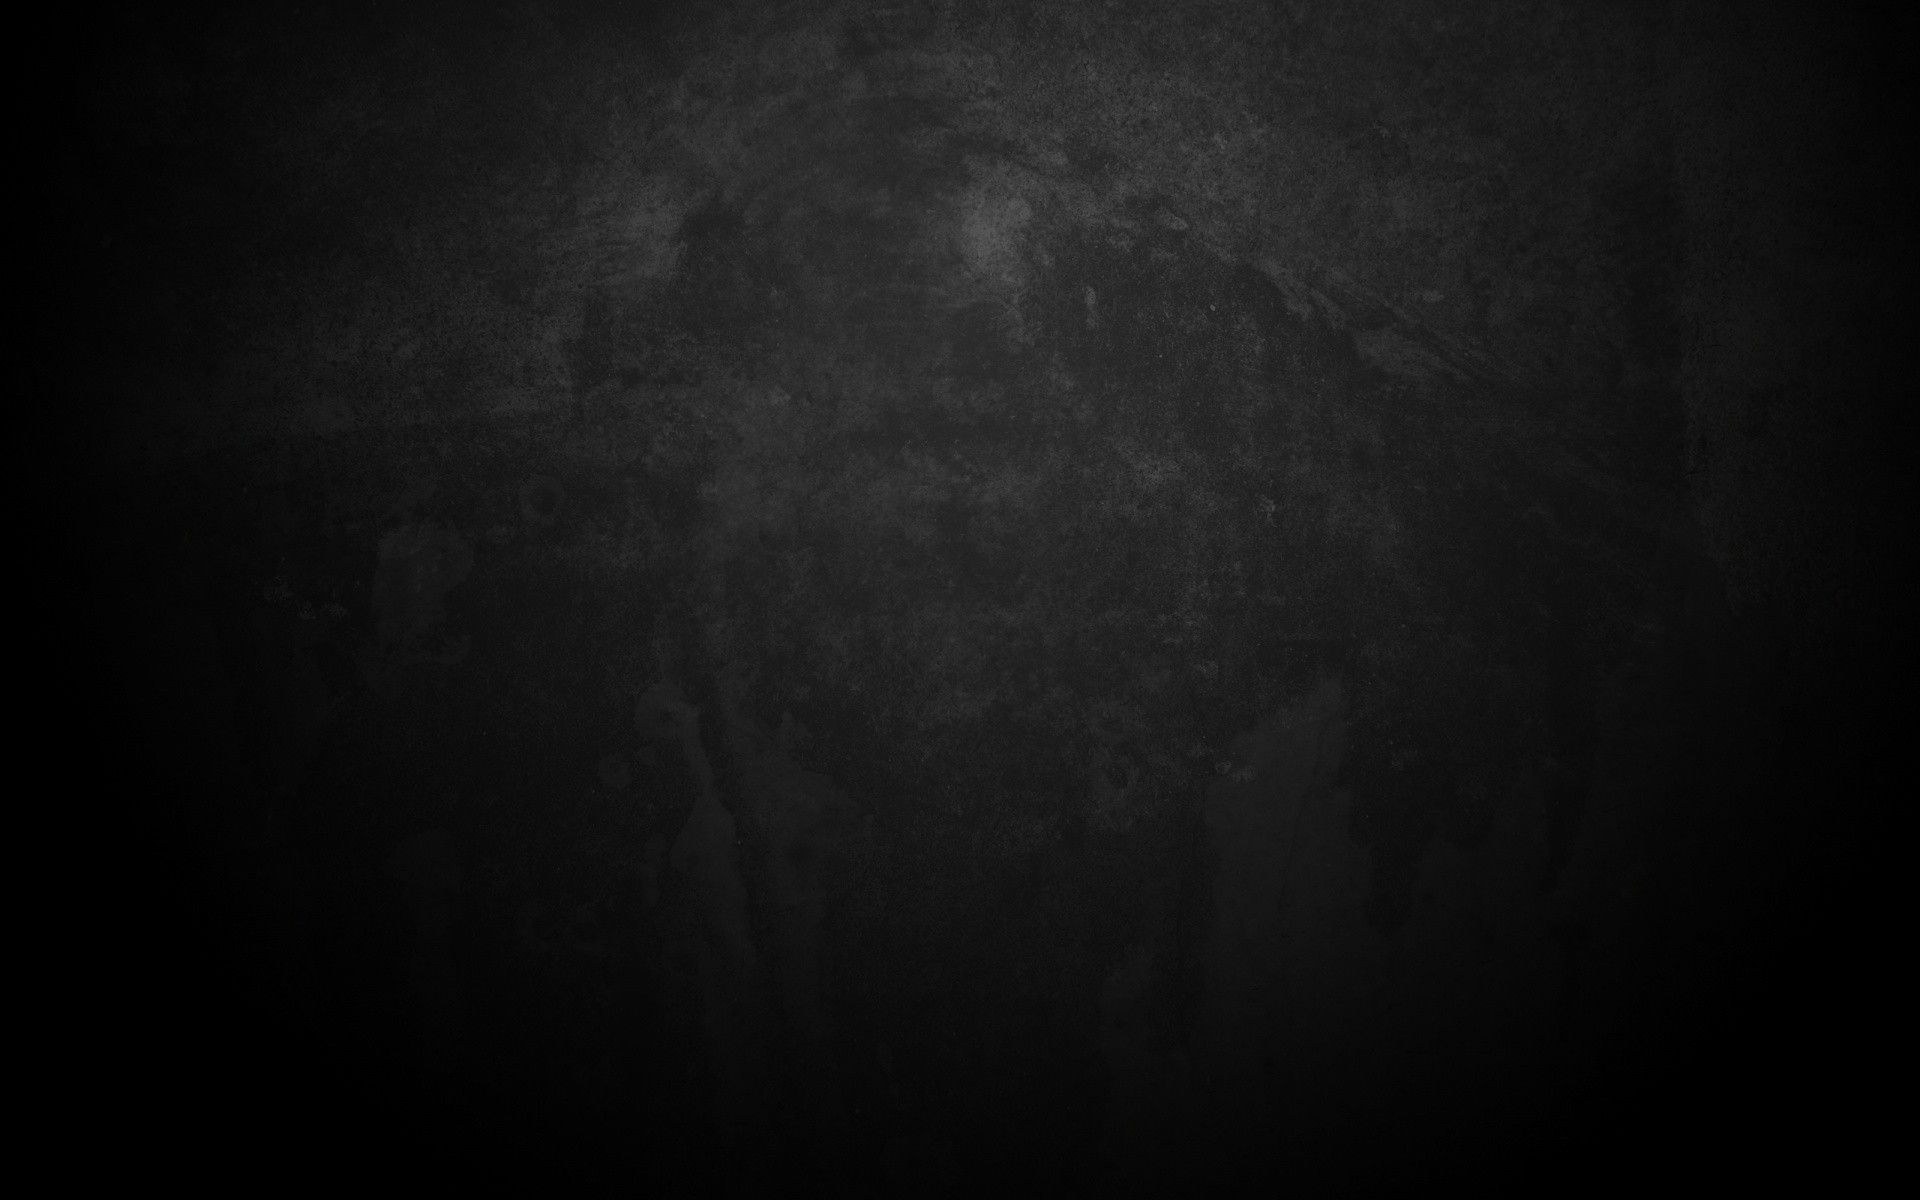
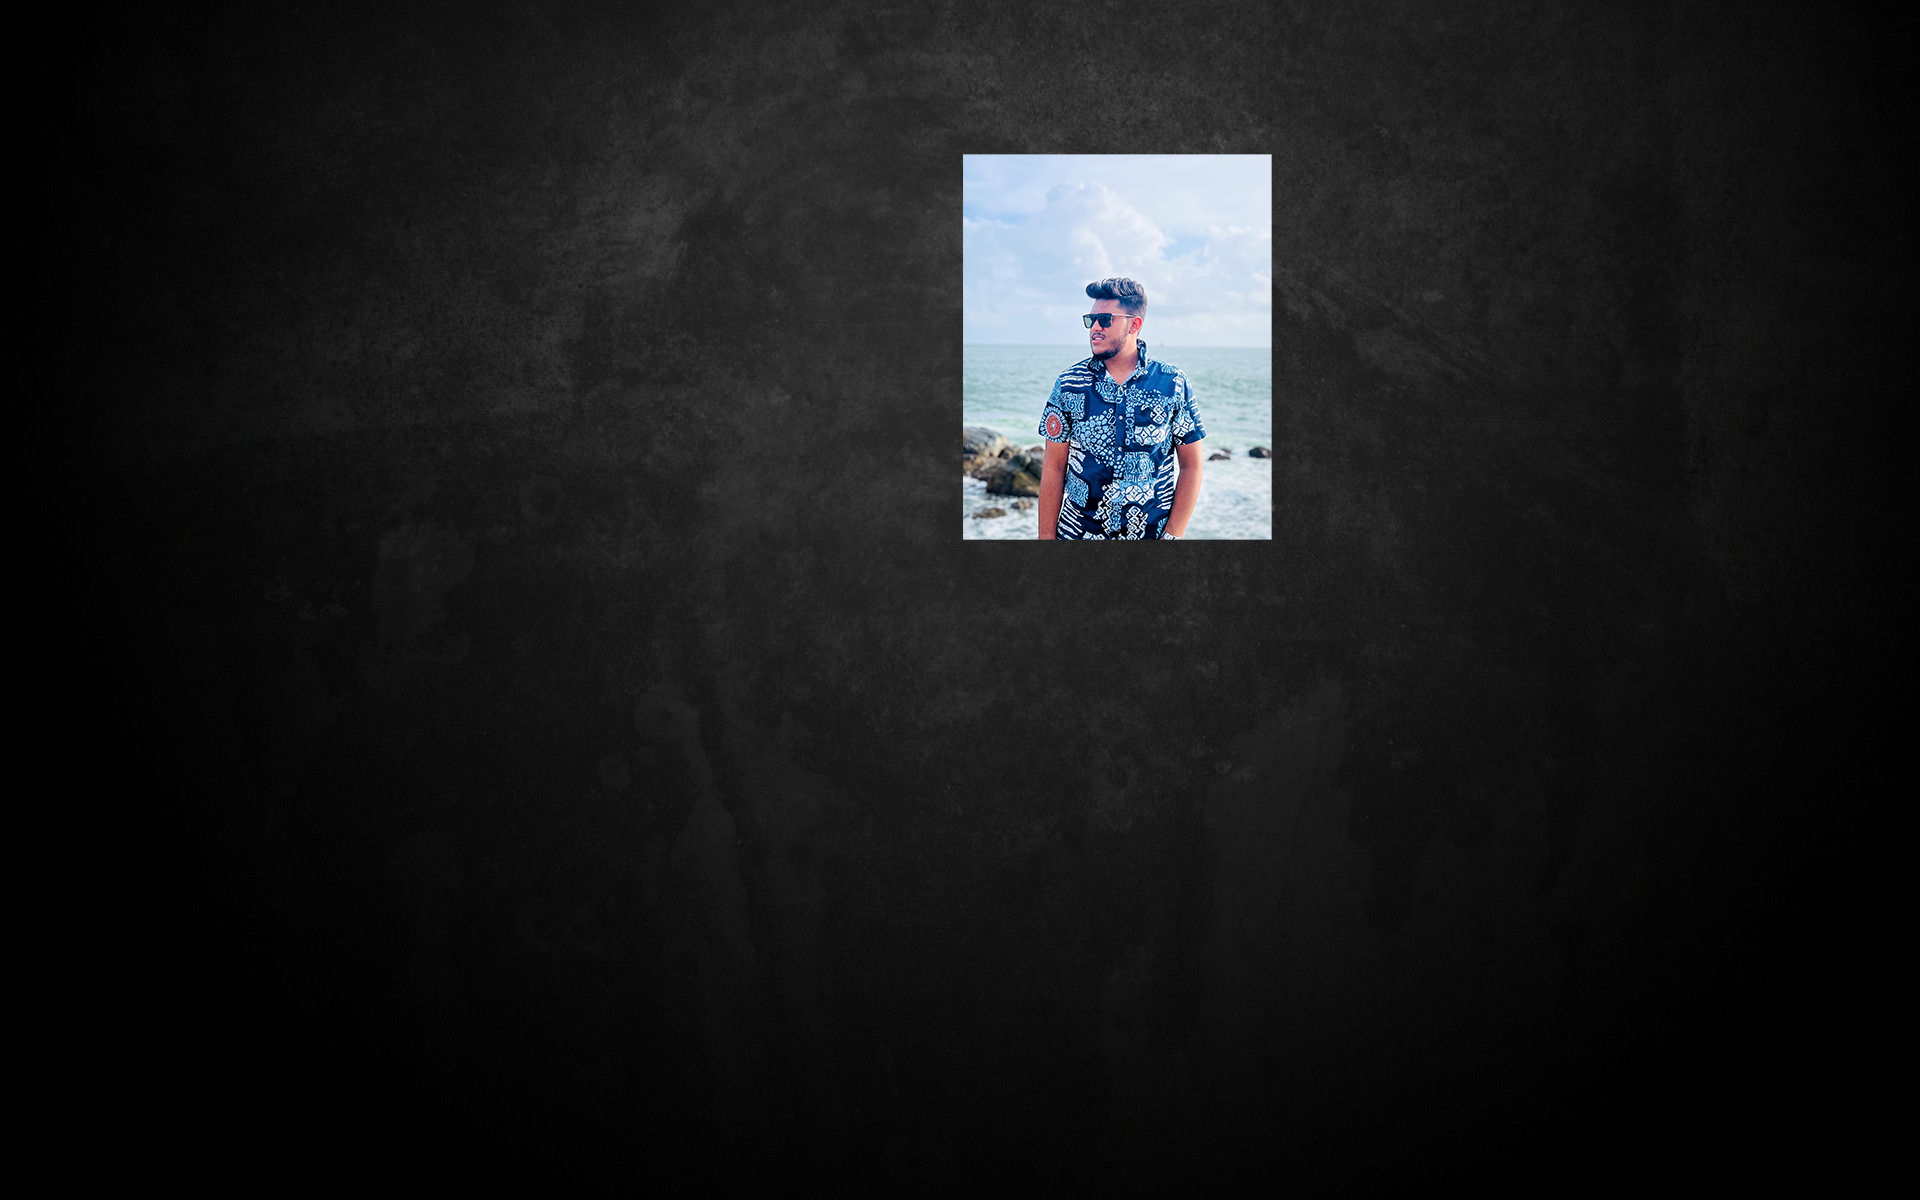
hh

Changed region(s): [[0.5, 0.1233, 0.6875, 0.4625]]

diff --git a/index.html b/index.html
@@ -64,7 +64,7 @@
     <div class="container">
 
       <h1><a href="index.html">TCN Bandara</a></h1>
-      <h2 style="color:#fff">I'm <span class="typing" style="color:#12D640"></span></h2>
+      <h2 style="color:#fff">I'm a <span class="typing" style="color:#12D640"></span></h2>
       <nav class="nav-menu d-none d-lg-block">
         <ul>
           <li class="active"><a href="#header"> <span>Home</span></a></li>
@@ -82,11 +82,14 @@
       </nav><!-- .nav-menu -->
 
       <div class="social-links">
-          <a href="https://www.linkedin.com/in/chamara-nuwan-032a35323" target="_blank" class="linkedin"><i class="bx bxl-linkedin"></i></a>
-          <a href="https://github.com/chamaraIT22113122" target="_blank" class="github"><i class="bx bxl-github"></i></a>
-          <a href="mailto:rajaprerak@gmail.com" target="_blank" class="google"><i class="bx bxl-google"></i></a>
-
-      </div>
+        <a href="https://www.linkedin.com/in/chamara-nuwan-032a35323" target="_blank" class="linkedin"><i class="bx bxl-linkedin"></i></a>
+        <a href="https://github.com/chamaraIT22113122" target="_blank" class="github"><i class="bx bxl-github"></i></a>
+        <a href="mailto:cn1120693@gmail.com" target="_blank" class="google"><i class="bx bxl-google"></i></a>
+        <a href="https://www.instagram.com/Cha__m_a" target="_blank" class="instagram"><i class="bx bxl-instagram"></i></a>
+        <a href="https://www.facebook.com/chamara.nuwan.332345" target="_blank" class="facebook"><i class="bx bxl-facebook"></i></a>
+        <a href="https://wa.me/+94702481691" target="_blank" class="whatsapp"><i class="bx bxl-whatsapp"></i></a>
+    </div>
+    
 
     </div>
   </header><!-- End Header -->
@@ -103,24 +106,21 @@
 
       <div class="row">
         <div class="col-lg-4" data-aos="fade-right">
-          <img src="#" class="img-fluid" alt="">
+          <img src="dp.jpg" class="img-fluid" alt="">
         </div>
-        <div class="col-lg-8 pt-4 pt-lg-0 content" data-aos="fade-left">
-          <p>Focused and enthusiastic developer with a keen interest in software development and artificial intelligence. By comprehensive exposure
-            to the underlying concepts and applying them vividly to various projects, my love for these domains came into being.
-            I am a passionate individual who thrives to build and apply algorithms to solve real-world industry problems.
-          </p>
-          <div class="row">
+        <div class="col-lg-8 pt-4 pt-lg-0 content" data-aos="fade-left"><br>
+          <p>I am a passionate and dedicated developer with a strong foundation in web development, UI/UX design, app development, and graphic design. My journey into these fields is driven by a deep curiosity to create seamless, user-friendly digital experiences. I leverage my technical skills and design sensibilities to craft responsive websites, intuitive app interfaces, and visually engaging graphics that not only function flawlessly but also captivate users. Whether building an interactive web interface or designing aesthetic layouts, I am committed to transforming ideas into impactful digital products.</p>
+          <br><br><div class="row">
             <div class="col-lg-6">
               <ul>
-                <li><i class="icofont-rounded-right"></i> <strong>Birthday:</strong> 12 October 1996</li>
-                <li><i class="icofont-rounded-right"></i> <strong>Phone:</strong> +1 480-401-8112</li>
+                <li><i class="icofont-rounded-right"></i> <strong>Birthday:</strong> 06 April 2002</li>
+                <li><i class="icofont-rounded-right"></i> <strong>Phone:</strong> +94 70-2481-691</li>
               </ul>
             </div>
             <div class="col-lg-6">
               <ul>
-                <li><i class="icofont-rounded-right"></i> <strong>City:</strong> Tempe, AZ</li>
-                <li><i class="icofont-rounded-right"></i> <strong>Email:</strong> rajaprerak@gmail.com</li>
+                <li><i class="icofont-rounded-right"></i> <strong>City:</strong> Malabe, SL</li>
+                <li><i class="icofont-rounded-right"></i> <strong>Email:</strong> cn1120693@gmail.com</li>
               </ul>
             </div>
           </div>
@@ -131,62 +131,65 @@
 
     <!-- ======= Interests ======= -->
     <div class="interests container">
-
       <div class="section-title">
         <h2>Interests</h2>
       </div>
-
+    
       <div class="row">
+        <!-- Software Engineering -->
         <div class="col-lg-3 col-md-4">
           <div class="icon-box">
-            <i class="ri-global-line" style="color: #ffbb2c;"></i>
-            <h3>Software Development</h3>
+            <i class="ri-code-s-slash-fill" style="color: #ff5722;"></i>
+            <h3>Software Engineering</h3>
+            <ul>
+              <li>System Design</li>
+              <li>Code Optimization</li>
+              <li>Agile Methodologies</li>
+            </ul>
           </div>
         </div>
+    
+        <!-- App Development -->
         <div class="col-lg-3 col-md-4 mt-4 mt-md-0">
           <div class="icon-box">
-            <i class="ri-database-2-line" style="color: #5578ff;"></i>
-            <h3>Machine Learning</h3>
+            <i class="ri-smartphone-line" style="color: #3f51b5;"></i>
+            <h3>App Development</h3>
+            <ul>
+              <li>Cross-Platform Apps</li>
+              <li>Backend Integration</li>
+              <li>Performance Tuning</li>
+            </ul>
           </div>
         </div>
+    
+        <!-- UI/UX Design -->
         <div class="col-lg-3 col-md-4 mt-4 mt-md-0">
           <div class="icon-box">
-            <i class="ri-camera-3-line" style="color: #e80368;"></i>
-            <h3>Computer Vision</h3>
+            <i class="ri-layout-masonry-line" style="color: #009688;"></i>
+            <h3>UI/UX Design</h3>
+            <ul>
+              <li>Wireframing</li>
+              <li>Prototyping</li>
+              <li>User Research</li>
+            </ul>
           </div>
         </div>
+    
+        <!-- Graphic Designing -->
         <div class="col-lg-3 col-md-4 mt-4 mt-lg-0">
           <div class="icon-box">
-            <i class="ri-english-input" style="color: #1c7d32;"></i>
-            <h3>Natural Language Processing</h3>
-          </div>
-        </div>
-        <div class="col-lg-3 col-md-4 mt-4">
-          <div class="icon-box">
-            <i class="ri-code-s-slash-fill" style="color: #28a745;"></i>
-            <h3>Software Engineering</h3>
-          </div>
-        </div>
-        <div class="col-lg-3 col-md-4 mt-4">
-          <div class="icon-box">
-            <i class="ri-bar-chart-box-line" style="color: #f1081f;"></i>
-            <h3>Visualization</h3>
-          </div>
-        </div>
-        <div class="col-lg-3 col-md-4 mt-4">
-          <div class="icon-box">
-            <i class="ri-file-list-3-line" style="color: #47aeff;"></i>
-            <h3>Algorithms</h3>
-          </div>
-        </div>
-        <div class="col-lg-3 col-md-4 mt-4">
-          <div class="icon-box">
-            <i class="ri-image-line" style="color: #ffc107;"></i>
-            <h3>Image Processing</h3>
+            <i class="ri-brush-3-line" style="color: #ff9800;"></i>
+            <h3>Graphic Designing</h3>
+            <ul>
+              <li>Logo Design</li>
+              <li>Branding</li>
+              <li>Illustrations</li>
+            </ul>
           </div>
         </div>
       </div>
-
+    </div>
+    
     </div><!-- End Interests -->
   </section><!-- End About Section -->
 
@@ -643,9 +646,9 @@
           <div class="info-box">
             <i class="bx bx-map"></i>
             <h3>My Address</h3>
-            <p>1275 E University Dr</p>
-            <p>Unit 212</p>
-            <p>Tempe, AZ 85281</p>
+            <p>#</p>
+            <p>#</p>
+            <p>#</p>
           </div>
         </div>
 
@@ -654,9 +657,9 @@
             <i class="bx bx-share-alt"></i>
             <h3>Social Profiles</h3>
             <div class="social-links">
-              <a href="https://www.linkedin.com/in/rajaprerak" target="_blank" class="linkedin"><i class="bx bxl-linkedin"></i></a>
-              <a href="https://www.github.com/rajaprerak" target="_blank" class="github"><i class="bx bxl-github"></i></a>
-              <a href="mailto:rajaprerak@gmail.com" target="_blank" class="google"><i class="bx bxl-google"></i></a>
+              <a href="https://www.linkedin.com/in/chamara-nuwan-032a35323" target="_blank" class="linkedin"><i class="bx bxl-linkedin"></i></a>
+          <a href="https://github.com/chamaraIT22113122" target="_blank" class="github"><i class="bx bxl-github"></i></a>
+          <a href="mailto:cn1120693@gmail.com" target="_blank" class="google"><i class="bx bxl-google"></i></a>
 
             </div>
           </div>
@@ -666,15 +669,15 @@
           <div class="info-box">
             <i class="bx bx-envelope"></i>
             <h3>Email</h3>
-            <p>rajaprerak@gmail.com</p>
-            <p>pkraja@asu.edu</p>
+            <p>cn1120693@gmail.com</p>
+            <p></p>
           </div>
         </div>
         <div class="col-md-6 mt-4 d-flex align-items-stretch">
           <div class="info-box">
             <i class="bx bx-phone-call"></i>
             <h3>Contact</h3>
-            <p>+1 480-401-8112</p>
+            <p>+9470-2481-691</p>
           </div>
         </div>
       </div>
@@ -697,7 +700,7 @@
   <script src="assets/vendor/typed.js/typed.min.js"></script>
   <script type="text/javascript">
     var typed = new Typed('.typing',{
-      strings: ["Coder", "Developer", "AI Enthusiast"],
+      strings: ["Web Developer !", "UI/UX Desinger !","App Developer !", "Graphic Desinger !",],
       loop: true,
       typeSpeed: 65,
       backSpeed: 65

diff --git a/assets/css/style.css b/assets/css/style.css
@@ -49,7 +49,7 @@ h1, h2, h3, h4, h5, h6 {
 # Header
 --------------------------------------------------------------*/
 #header {
-  background-image: url('/rajaprerak.github.io-master/assets/img/background/bg.jpg');
+  background-image: url('/assets/img/background/bg.jpg');
   transition: ease-in-out 0s;
   position: relative;
   height: 100vh;
@@ -480,33 +480,76 @@ section .container {
 /*--------------------------------------------------------------
 # Interests
 --------------------------------------------------------------*/
-.interests .icon-box {
-  display: flex;
-  align-items: center;
+/* General Container Styling */
+.interests.container {
+  padding: 40px 20px;
+  background-color: #042e5f;
+  border-radius: 8px;
+  box-shadow: 0 4px 6px rgba(0, 0, 0, 0.1);
+}
+
+/* Section Title */
+.interests .section-title h2 {
+  font-size: 28px;
+  text-align: center;
+  color: #333;
+  font-weight: 600;
+  margin-bottom: 30px;
+}
+
+/* Icon Box Styling */
+.icon-box {
+  text-align: center;
+  background: #fff;
+  border-radius: 8px;
   padding: 20px;
-  background: #09203a;
-  transition: ease-in-out 0.3s;
+  transition: transform 0.3s, box-shadow 0.3s;
+  box-shadow: 0 2px 4px rgba(0, 0, 0, 0.1);
 }
 
-
-.interests .icon-box i {
-  font-size: 32px;
-  padding-right: 10px;
-  line-height: 1;
+.icon-box:hover {
+  transform: translateY(-5px);
+  box-shadow: 0 4px 8px rgba(0, 0, 0, 0.2);
 }
 
-.interests .icon-box h3 {
-  font-weight: 700;
-  margin: 0;
+/* Icon Styling */
+.icon-box i {
+  font-size: 36px;
+  margin-bottom: 10px;
+}
+
+.icon-box h3 {
+  font-size: 20px;
+  color: #333;
+  margin: 10px 0;
+  font-weight: 500;
+}
+
+/* Sub-Function List Styling */
+.icon-box ul {
+  list-style: none;
   padding: 0;
-  line-height: 1;
-  font-size: 16px;
-  color: #fff;
+  margin: 10px 0 0;
 }
 
-.interests .icon-box:hover {
-  background: #042b56eb;
+.icon-box ul li {
+  font-size: 14px;
+  color: #666;
+  margin: 5px 0;
+  line-height: 1.4;
 }
+
+/* Responsive Styling */
+@media (max-width: 768px) {
+  .icon-box {
+    margin-bottom: 20px;
+  }
+
+  .interests .section-title h2 {
+    font-size: 24px;
+  }
+}
+
 
 /*--------------------------------------------------------------
 # Testimonials
